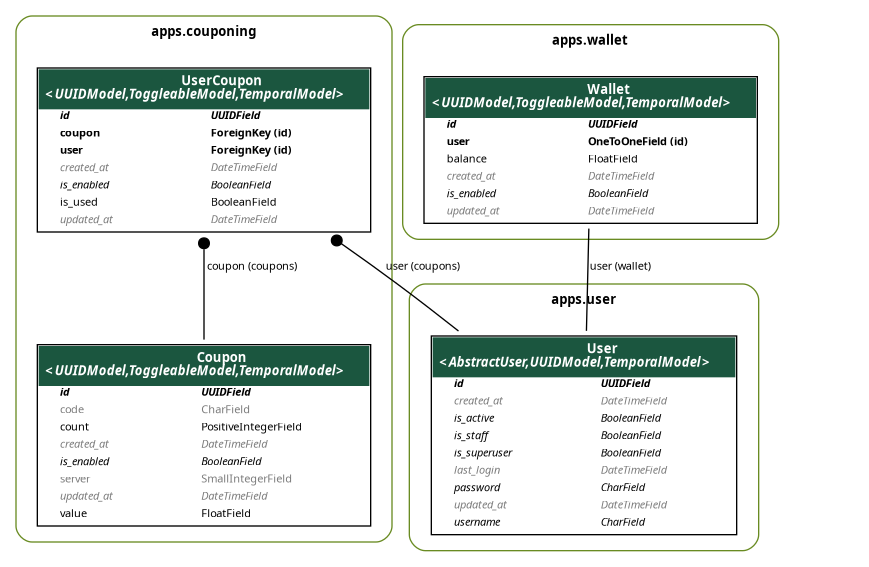
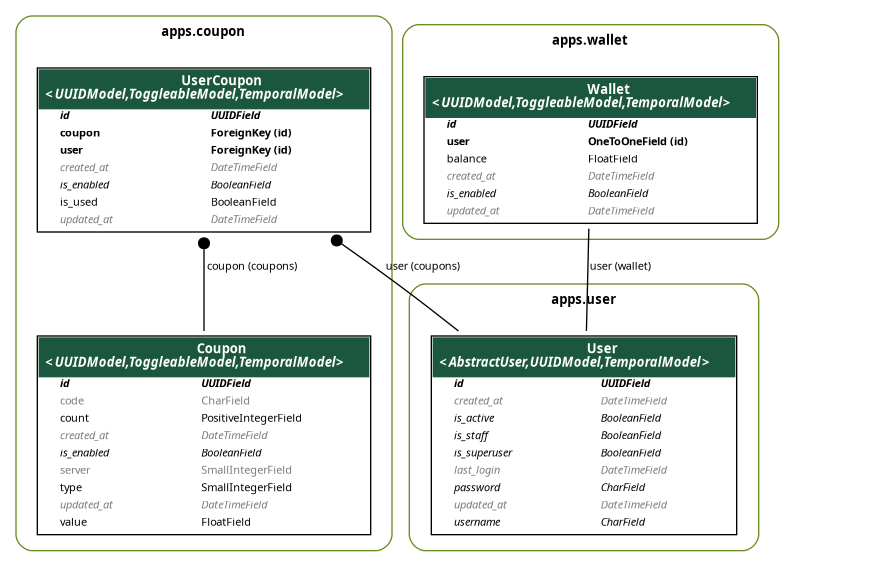
major refactor

Changed region(s): [[0.0, 0.5697, 0.4661, 0.9894], [0.1554, 0.03, 0.3107, 0.0899]]

diff --git a/apps/coupon/migrations/0001_initial.py b/apps/coupon/migrations/0001_initial.py
@@ -1,6 +1,6 @@
-# Generated by Django 4.2 on 2023-06-20 18:18
+# Generated by Django 4.2 on 2023-06-21 13:15
 
-from django.conf import settings
+import apps.coupon.utils
 import django.core.validators
 from django.db import migrations, models
 import django.db.models.deletion
@@ -12,7 +12,6 @@ class Migration(migrations.Migration):
     initial = True
 
     dependencies = [
-        migrations.swappable_dependency(settings.AUTH_USER_MODEL),
     ]
 
     operations = [
@@ -23,8 +22,11 @@ class Migration(migrations.Migration):
                 ('is_enabled', models.BooleanField(default=True, verbose_name='Is Enabled')),
                 ('created_at', models.DateTimeField(auto_now_add=True, verbose_name='Created at')),
                 ('updated_at', models.DateTimeField(auto_now=True, verbose_name='Updated at')),
-                ('code', models.CharField(max_length=6, unique=True, verbose_name='Code')),
+                ('code', models.CharField(blank=True, default=apps.coupon.utils.generate_unique_code, max_length=6, unique=True, verbose_name='Code')),
+                ('value', models.FloatField(validators=[django.core.validators.MinValueValidator(0.01)], verbose_name='Value')),
                 ('count', models.PositiveIntegerField(validators=[django.core.validators.MinValueValidator(1)], verbose_name='Count')),
+                ('type', models.SmallIntegerField(choices=[(0, 'Credit'), (1, 'Discount')], verbose_name='Type')),
+                ('server', models.SmallIntegerField(blank=True, choices=[(0, 'USA'), (1, 'EU'), (2, 'UAE')], null=True, verbose_name='Server')),
             ],
             options={
                 'verbose_name': 'Coupon',
@@ -39,8 +41,7 @@ class Migration(migrations.Migration):
                 ('created_at', models.DateTimeField(auto_now_add=True, verbose_name='Created at')),
                 ('updated_at', models.DateTimeField(auto_now=True, verbose_name='Updated at')),
                 ('is_used', models.BooleanField(default=False, verbose_name='Is Used')),
-                ('coupon', models.ForeignKey(on_delete=django.db.models.deletion.CASCADE, related_name='coupons', to='couponing.coupon')),
-                ('user', models.ForeignKey(on_delete=django.db.models.deletion.CASCADE, related_name='coupons', to=settings.AUTH_USER_MODEL)),
+                ('coupon', models.ForeignKey(on_delete=django.db.models.deletion.CASCADE, related_name='coupons', to='coupon.coupon')),
             ],
             options={
                 'verbose_name': 'User Coupon',

diff --git a/apps/user/migrations/0001_initial.py b/apps/user/migrations/0001_initial.py
@@ -1,4 +1,4 @@
-# Generated by Django 4.2 on 2023-06-20 16:53
+# Generated by Django 4.2 on 2023-06-21 13:15
 
 import apps.user.managers
 import django.contrib.auth.validators
@@ -25,7 +25,6 @@ class Migration(migrations.Migration):
                 ('last_login', models.DateTimeField(blank=True, null=True, verbose_name='last login')),
                 ('is_superuser', models.BooleanField(default=False, help_text='Designates that this user has all permissions without explicitly assigning them.', verbose_name='superuser status')),
                 ('username', models.CharField(error_messages={'unique': 'A user with that username already exists.'}, help_text='Required. 150 characters or fewer. Letters, digits and @/./+/-/_ only.', max_length=150, unique=True, validators=[django.contrib.auth.validators.UnicodeUsernameValidator()], verbose_name='username')),
-                ('email', models.EmailField(blank=True, max_length=254, verbose_name='email address')),
                 ('is_staff', models.BooleanField(default=False, help_text='Designates whether the user can log into this admin site.', verbose_name='staff status')),
                 ('is_active', models.BooleanField(default=True, help_text='Designates whether this user should be treated as active. Unselect this instead of deleting accounts.', verbose_name='active')),
                 ('groups', models.ManyToManyField(blank=True, help_text='The groups this user belongs to. A user will get all permissions granted to each of their groups.', related_name='user_set', related_query_name='user', to='auth.group', verbose_name='groups')),

diff --git a/apps/wallet/migrations/0001_initial.py b/apps/wallet/migrations/0001_initial.py
@@ -1,5 +1,6 @@
-# Generated by Django 4.2 on 2023-06-20 17:43
+# Generated by Django 4.2 on 2023-06-21 13:15
 
+from django.conf import settings
 import django.core.validators
 from django.db import migrations, models
 import django.db.models.deletion
@@ -11,6 +12,7 @@ class Migration(migrations.Migration):
     initial = True
 
     dependencies = [
+        migrations.swappable_dependency(settings.AUTH_USER_MODEL),
     ]
 
     operations = [
@@ -22,7 +24,7 @@ class Migration(migrations.Migration):
                 ('created_at', models.DateTimeField(auto_now_add=True, verbose_name='Created at')),
                 ('updated_at', models.DateTimeField(auto_now=True, verbose_name='Updated at')),
                 ('balance', models.FloatField(default=0, validators=[django.core.validators.MinValueValidator(0)], verbose_name='Balance')),
-                ('user', models.OneToOneField(on_delete=django.db.models.deletion.CASCADE, related_name='wallet', to='wallet.wallet')),
+                ('user', models.OneToOneField(on_delete=django.db.models.deletion.CASCADE, related_name='wallet', to=settings.AUTH_USER_MODEL)),
             ],
             options={
                 'verbose_name': 'Wallet',

diff --git a/apps/coupon/migrations/0002_initial.py b/apps/coupon/migrations/0002_initial.py
@@ -1,4 +1,4 @@
-# Generated by Django 4.2 on 2023-06-20 17:44
+# Generated by Django 4.2 on 2023-06-21 13:15
 
 from django.conf import settings
 from django.db import migrations, models
@@ -7,15 +7,17 @@ import django.db.models.deletion
 
 class Migration(migrations.Migration):
 
+    initial = True
+
     dependencies = [
+        ('coupon', '0001_initial'),
         migrations.swappable_dependency(settings.AUTH_USER_MODEL),
-        ('wallet', '0001_initial'),
     ]
 
     operations = [
-        migrations.AlterField(
-            model_name='wallet',
+        migrations.AddField(
+            model_name='usercoupon',
             name='user',
-            field=models.OneToOneField(on_delete=django.db.models.deletion.CASCADE, related_name='wallet', to=settings.AUTH_USER_MODEL),
+            field=models.ForeignKey(on_delete=django.db.models.deletion.CASCADE, related_name='coupons', to=settings.AUTH_USER_MODEL),
         ),
     ]

diff --git a/apps/coupon/models.py b/apps/coupon/models.py
@@ -11,7 +11,7 @@ from apps.core.models import (
     UUIDModel,
 )
 
-from apps.couponing.utils import generate_unique_code
+from apps.coupon.utils import generate_unique_code
 
 
 class Server(models.IntegerChoices):
@@ -22,7 +22,7 @@ class Server(models.IntegerChoices):
 
 class CouponType(models.IntegerChoices):
     CREDIT = 0, _('Credit')
-    REDEEMABLE = 1, _('Redeemable')
+    DISCOUNT = 1, _('Discount')
 
 
 class Coupon(UUIDModel, ToggleableModel, TemporalModel):
@@ -109,7 +109,7 @@ class UserCoupon(UUIDModel, ToggleableModel, TemporalModel):
         related_name='coupons',
     )
     coupon = models.ForeignKey(
-        'couponing.Coupon',
+        'coupon.Coupon',
         on_delete=models.CASCADE,
         related_name='coupons',
     )

diff --git a/config/settings/base.py b/config/settings/base.py
@@ -16,7 +16,7 @@ SECRET_KEY = config(
 INSTALLED_APPS = [
     # * Apps
     'apps.core.apps.CoreConfig',
-    'apps.couponing.apps.CouponingConfig',
+    'apps.coupon.apps.CouponConfig',
     'apps.user.apps.UserConfig',
     'apps.wallet.apps.WalletConfig',
 
@@ -110,7 +110,7 @@ DEFAULT_AUTO_FIELD = 'django.db.models.BigAutoField'
 
 
 class Filter(_Filter):
-    service = 'couponing'
+    service = 'coupon'
 
 
 LOGGING = get_logging(filter=Filter)
@@ -138,7 +138,7 @@ DATABASES = {
         'ENGINE': 'django.db.backends.postgresql',
         'NAME': config(
             'DB_NAME',
-            default='an-couponing',
+            default='cloud-coupon',
         ),
         'USER': config(
             'DB_USER',

diff --git a/config/urls.py b/config/urls.py
@@ -15,7 +15,7 @@ urlpatterns = [
         admin.site.urls,
     ),
     path(
-        'api/v1/couponing/',
+        'api/v1/coupon/',
         include('apps.urls'),
     ),
 ]
@@ -23,10 +23,10 @@ urlpatterns = [
 if settings.DEBUG:
     schema_view = get_schema_view(
         openapi.Info(
-            title='AN-Couponing',
+            title='Cloud-Coupon',
             default_version='0.0.1',
             description=
-            'Swagger UI for AN-Couponing backend service API Schema.',
+            'Swagger UI for Cloud-Coupon backend service API Schema.',
         ),
         permission_classes=[
             permissions.AllowAny,

diff --git a/apps/user/migrations/0002_user_email.py b/apps/user/migrations/0002_user_email.py
@@ -1,0 +1,18 @@
+# Generated by Django 4.2 on 2023-06-21 13:18
+
+from django.db import migrations, models
+
+
+class Migration(migrations.Migration):
+
+    dependencies = [
+        ('user', '0001_initial'),
+    ]
+
+    operations = [
+        migrations.AddField(
+            model_name='user',
+            name='email',
+            field=models.EmailField(blank=True, max_length=254, verbose_name='email address'),
+        ),
+    ]

diff --git a/apps/coupon/api/serializers.py b/apps/coupon/api/serializers.py
@@ -4,7 +4,7 @@ from rest_framework import serializers
 
 from apps.core.api.serializers import TemporalModelSerializer
 
-from apps.couponing.models import Coupon, UserCoupon
+from apps.coupon.models import Coupon, UserCoupon
 
 
 class CouponSerializer(serializers.ModelSerializer):

diff --git a/apps/coupon/admin.py b/apps/coupon/admin.py
@@ -3,7 +3,7 @@ from django.core.handlers.wsgi import WSGIRequest
 
 from apps.core.admin import TemporalModelAdmin, ToggleableModelAdmin
 
-from apps.couponing.models import Coupon, UserCoupon
+from apps.coupon.models import Coupon, UserCoupon
 
 
 @admin.register(Coupon)

diff --git a/apps/user/models.py b/apps/user/models.py
@@ -15,7 +15,6 @@ class User(AbstractUser, UUIDModel, TemporalModel):
     objects = CustomUserManager()
     active_objects = ActiveUserManager()
 
-    email = None
     first_name = None
     last_name = None
     date_joined = None

diff --git a/apps/coupon/apps.py b/apps/coupon/apps.py
@@ -1,6 +1,6 @@
 from django.apps import AppConfig
 
 
-class CouponingConfig(AppConfig):
+class CouponConfig(AppConfig):
     default_auto_field = 'django.db.models.BigAutoField'
-    name = 'apps.couponing'
+    name = 'apps.coupon'
